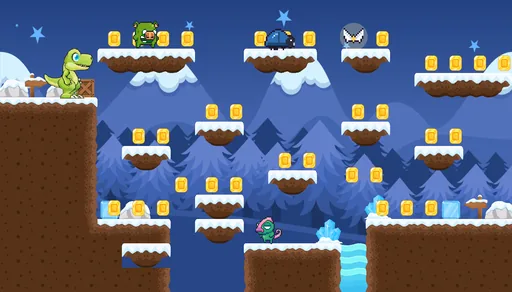
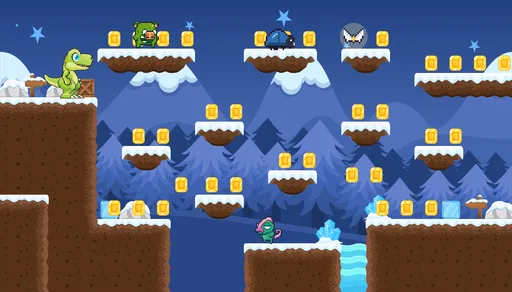
feat(levels): your Iceland edits, kept by the generator; seam steps fixed
Your tile edits in Iceland 1-5, Desert 3-4 and Graveyard 2-3, with the
collision and items to match:
- Iceland 1: a step at the pillar's base (col 18, top at row 8): stood
  on, with a left wall; the water and death zone under it pulled back.
- Iceland 2: the snow line at row 8 back at the seam (already solid).
- Iceland 3 to 5: the cave line runs into Iceland 3's cliff (decor, no
  collision); Iceland 4's ground ends at col 18 and a pit opens under
  the 4 -> 5 ledge, Iceland 5's entry ledge is three tiles over it, its
  ground from col 1 (death zones for the pit both sides).

The generated levels' edits survive `pnpm levels`:
- A seam's ledge at the screen edge uses the middle tile (it carries on
  into the next level) - in every generated level, daily and endless too.
- Seam steps stop once the ground ahead is in reach (they were dropping
  a step into the ground), and never stack under the other seam's steps.
- One-off shapes are hand touches (TOUCHES) laid over the built level.

Also: four level-select starts (Grassland 5, Iceland 4, Graveyard 2 and
4) were inside the ground since the seam heights changed, so the dino
fell through and respawned in a loop; they now stand on it, and the
start test checks for exactly that.

diff --git a/app/pcg/generator.js b/app/pcg/generator.js
@@ -479,10 +479,21 @@ function seamLedges(level, heights) {
     let end = LEDGE - 1;
     if (row < ground) place(row, 0, LEDGE - 1);
     else while (heights[col(end + 1)] === row) end += 1; // a cliff: its flat top
+    // the highest ground (any height) between d0 and d1 (ROWS if none)
+    const groundAt = (d0, d1) => {
+      let g = ROWS;
+      for (let d = d0; d <= d1; d++) if (heights[col(d)] !== null) g = Math.min(g, heights[col(d)]);
+      return g;
+    };
     let r = row;
     while (groundBelow(end - 1, end + 1, r) - r > MAX_STEP_UP && end + 3 < COLS - LEDGE - 1) {
+      // ground ahead at or near this step's height is reached by walking or a hop
+      if (groundAt(end + 2, end + 3) - MAX_STEP_UP <= r) break;
       const next = Math.min(r + 2, groundBelow(end + 2, end + 3, r) - 2);
       if (next <= r) break;
+      const [s, e] = [Math.min(col(end + 2), col(end + 3)), Math.max(col(end + 2), col(end + 3))];
+      // the other seam's steps already lead down here: don't stack one under another
+      if (out.some(([pr, ps, pe]) => Math.abs(pr - next) <= 2 && s <= pe + 1 && e >= ps - 1)) break;
       r = next;
       place(r, end + 2, end + 3);
       end += 3;
@@ -623,7 +634,10 @@ export function buildLevelOnce(input, seed, dropped) {
 
   platforms.forEach(([r, s, e]) => {
     for (let c = s; c <= e; c++) {
-      areaMap[r][c] = c === s ? T.platLeft : c === e ? T.platRight : T.platMid;
+      // a seam's ledge at the screen edge carries on into the next level: no end cap there
+      const open = c === 0 || c === COLS - 1;
+      const cap = !open || !reserved.has([r, s, e].join(","));
+      areaMap[r][c] = cap && c === s ? T.platLeft : cap && c === e ? T.platRight : T.platMid;
       collisonMap[r][c] = "t";
     }
   });
@@ -1169,6 +1183,71 @@ export function ascii({ data }) {
     .join("\n");
 }
 
+/**
+ * Hand touches on generated story levels: cells drawn by hand that the generator doesn't
+ * make, laid over the built level by buildAll (so `pnpm levels` keeps them). Each cell is
+ * [row, col, tile, collision]; `death` adds pit zones. Whatever stood on ground a touch
+ * takes away (decor, coins) goes with it.
+ */
+export const TOUCHES = {
+  // Iceland 3: Iceland 2's cave floor line runs on into the cliff (decor inside the dirt)
+  9: {
+    cells: [
+      [8, 0, 2, ""],
+      [8, 1, [5, 3], ""],
+      [9, 1, [5, 6], ""],
+      [10, 1, [5, 6], ""],
+      [11, 1, [5, 6], ""],
+    ],
+  },
+  // Iceland 4: the ground ends a column early (col 18); a pit opens under the exit ledge
+  10: {
+    cells: [
+      [9, 18, 3, "tr"],
+      [10, 18, 6, "r"],
+      [11, 18, 6, "r"],
+      ...[9, 10, 11].flatMap((r) => [
+        [r, 19, 0, ""],
+        [r, 20, 0, ""],
+      ]),
+    ],
+    death: [{ x: 19 * TILE, y: 170, height: 32, width: 2 * TILE }],
+  },
+  // Iceland 5: a three-tile entry ledge over the pit, its ground starting at col 1
+  11: {
+    cells: [
+      [7, 2, 15, "t"],
+      [7, 3, 0, ""],
+      [9, 0, 0, ""],
+      [9, 1, 1, "tl"],
+      [10, 0, 0, ""],
+      [10, 1, 4, "l"],
+      [11, 0, 0, ""],
+      [11, 1, 4, "l"],
+    ],
+    death: [{ x: 0, y: 170, height: 32, width: TILE }],
+  },
+};
+
+/** Lays a level's hand touches (TOUCHES) over its built data. */
+function touch(data) {
+  const touches = TOUCHES[data.id];
+  if (!touches) return;
+  touches.cells.forEach(([r, c, tile, collision]) => {
+    const wasTop = (data.collisonMap[r][c] || "").includes("t");
+    data.areaMap[r][c] = tile;
+    data.collisonMap[r][c] = collision;
+    if (tile || !wasTop) return;
+    // the ground or ledge here went: so does what stood on it
+    if (r > 0) data.objectsMap[r - 1][c] = 0;
+    const on = (item) => Math.floor(item.left + 0.3) === c && item.top >= r - 1.5 && item.top < r;
+    data.coins = data.coins.filter((coin) => !on(coin));
+    data.enemies = data.enemies.filter((enemy) => !on(enemy));
+    if (data.powerups) data.powerups = data.powerups.filter((p) => !on(p));
+  });
+  data.death.push(...(touches.death || []));
+}
+
 /** Builds every level in LEVELS (first valid seed) and links their portals. */
 export function buildAll() {
   const results = {};
@@ -1184,6 +1263,8 @@ export function buildAll() {
     if (error) throw new Error(`area ${level.id}: could not generate a valid level (${error})`);
     results[level.id] = { ...result, seed };
   });
+
+  Object.values(results).forEach(({ data }) => touch(data));
 
   // Portals between two generated levels land the player just above the
   // neighbour's edge ground.

diff --git a/functions/shared/pcg/generator.js b/functions/shared/pcg/generator.js
@@ -480,10 +480,21 @@ function seamLedges(level, heights) {
     let end = LEDGE - 1;
     if (row < ground) place(row, 0, LEDGE - 1);
     else while (heights[col(end + 1)] === row) end += 1; // a cliff: its flat top
+    // the highest ground (any height) between d0 and d1 (ROWS if none)
+    const groundAt = (d0, d1) => {
+      let g = ROWS;
+      for (let d = d0; d <= d1; d++) if (heights[col(d)] !== null) g = Math.min(g, heights[col(d)]);
+      return g;
+    };
     let r = row;
     while (groundBelow(end - 1, end + 1, r) - r > MAX_STEP_UP && end + 3 < COLS - LEDGE - 1) {
+      // ground ahead at or near this step's height is reached by walking or a hop
+      if (groundAt(end + 2, end + 3) - MAX_STEP_UP <= r) break;
       const next = Math.min(r + 2, groundBelow(end + 2, end + 3, r) - 2);
       if (next <= r) break;
+      const [s, e] = [Math.min(col(end + 2), col(end + 3)), Math.max(col(end + 2), col(end + 3))];
+      // the other seam's steps already lead down here: don't stack one under another
+      if (out.some(([pr, ps, pe]) => Math.abs(pr - next) <= 2 && s <= pe + 1 && e >= ps - 1)) break;
       r = next;
       place(r, end + 2, end + 3);
       end += 3;
@@ -624,7 +635,10 @@ export function buildLevelOnce(input, seed, dropped) {
 
   platforms.forEach(([r, s, e]) => {
     for (let c = s; c <= e; c++) {
-      areaMap[r][c] = c === s ? T.platLeft : c === e ? T.platRight : T.platMid;
+      // a seam's ledge at the screen edge carries on into the next level: no end cap there
+      const open = c === 0 || c === COLS - 1;
+      const cap = !open || !reserved.has([r, s, e].join(","));
+      areaMap[r][c] = cap && c === s ? T.platLeft : cap && c === e ? T.platRight : T.platMid;
       collisonMap[r][c] = "t";
     }
   });
@@ -1170,6 +1184,71 @@ export function ascii({ data }) {
     .join("\n");
 }
 
+/**
+ * Hand touches on generated story levels: cells drawn by hand that the generator doesn't
+ * make, laid over the built level by buildAll (so `pnpm levels` keeps them). Each cell is
+ * [row, col, tile, collision]; `death` adds pit zones. Whatever stood on ground a touch
+ * takes away (decor, coins) goes with it.
+ */
+export const TOUCHES = {
+  // Iceland 3: Iceland 2's cave floor line runs on into the cliff (decor inside the dirt)
+  9: {
+    cells: [
+      [8, 0, 2, ""],
+      [8, 1, [5, 3], ""],
+      [9, 1, [5, 6], ""],
+      [10, 1, [5, 6], ""],
+      [11, 1, [5, 6], ""],
+    ],
+  },
+  // Iceland 4: the ground ends a column early (col 18); a pit opens under the exit ledge
+  10: {
+    cells: [
+      [9, 18, 3, "tr"],
+      [10, 18, 6, "r"],
+      [11, 18, 6, "r"],
+      ...[9, 10, 11].flatMap((r) => [
+        [r, 19, 0, ""],
+        [r, 20, 0, ""],
+      ]),
+    ],
+    death: [{ x: 19 * TILE, y: 170, height: 32, width: 2 * TILE }],
+  },
+  // Iceland 5: a three-tile entry ledge over the pit, its ground starting at col 1
+  11: {
+    cells: [
+      [7, 2, 15, "t"],
+      [7, 3, 0, ""],
+      [9, 0, 0, ""],
+      [9, 1, 1, "tl"],
+      [10, 0, 0, ""],
+      [10, 1, 4, "l"],
+      [11, 0, 0, ""],
+      [11, 1, 4, "l"],
+    ],
+    death: [{ x: 0, y: 170, height: 32, width: TILE }],
+  },
+};
+
+/** Lays a level's hand touches (TOUCHES) over its built data. */
+function touch(data) {
+  const touches = TOUCHES[data.id];
+  if (!touches) return;
+  touches.cells.forEach(([r, c, tile, collision]) => {
+    const wasTop = (data.collisonMap[r][c] || "").includes("t");
+    data.areaMap[r][c] = tile;
+    data.collisonMap[r][c] = collision;
+    if (tile || !wasTop) return;
+    // the ground or ledge here went: so does what stood on it
+    if (r > 0) data.objectsMap[r - 1][c] = 0;
+    const on = (item) => Math.floor(item.left + 0.3) === c && item.top >= r - 1.5 && item.top < r;
+    data.coins = data.coins.filter((coin) => !on(coin));
+    data.enemies = data.enemies.filter((enemy) => !on(enemy));
+    if (data.powerups) data.powerups = data.powerups.filter((p) => !on(p));
+  });
+  data.death.push(...(touches.death || []));
+}
+
 /** Builds every level in LEVELS (first valid seed) and links their portals. */
 export function buildAll() {
   const results = {};
@@ -1185,6 +1264,8 @@ export function buildAll() {
     if (error) throw new Error(`area ${level.id}: could not generate a valid level (${error})`);
     results[level.id] = { ...result, seed };
   });
+
+  Object.values(results).forEach(({ data }) => touch(data));
 
   // Portals between two generated levels land the player just above the
   // neighbour's edge ground.

diff --git a/app/util/index.js b/app/util/index.js
@@ -89,12 +89,12 @@ export const LEVELS = [
   { name: "Grassland 2", id: 2, world: "Grasslands", left: 40, top: 100 },
   { name: "Grassland 3", id: 3, world: "Grasslands", left: 40, top: 120 },
   { name: "Grassland 4", id: 4, world: "Grasslands", left: 40, top: 92 }, // on its starting cliff
-  { name: "Grassland 5", id: 5, world: "Grasslands", left: 40, top: 124 },
+  { name: "Grassland 5", id: 5, world: "Grasslands", left: 40, top: 108 },
   { name: "Grassland 6", id: 6, world: "Grasslands", left: 40, top: 124, boss: true },
   { name: "Iceland 1", id: 7, world: "Iceland", left: 48, top: 100 },
   { name: "Iceland 2", id: 8, world: "Iceland", left: 32, top: 20 },
   { name: "Iceland 3", id: 9, world: "Iceland", left: 40, top: 44 }, // on its starting cliff
-  { name: "Iceland 4", id: 10, world: "Iceland", left: 40, top: 140 },
+  { name: "Iceland 4", id: 10, world: "Iceland", left: 40, top: 124 },
   { name: "Iceland 5", id: 11, world: "Iceland", left: 40, top: 124 },
   { name: "Iceland 6", id: 12, world: "Iceland", left: 40, top: 124, boss: true },
   { name: "Desert 1", id: 13, world: "Desert", left: 40, top: 124 },
@@ -104,9 +104,9 @@ export const LEVELS = [
   { name: "Desert 5", id: 17, world: "Desert", left: 40, top: 124 },
   { name: "Desert 6", id: 18, world: "Desert", left: 40, top: 124, boss: true },
   { name: "Graveyard 1", id: 19, world: "Graveyard", left: 40, top: 124 },
-  { name: "Graveyard 2", id: 20, world: "Graveyard", left: 40, top: 124 },
+  { name: "Graveyard 2", id: 20, world: "Graveyard", left: 40, top: 108 },
   { name: "Graveyard 3", id: 21, world: "Graveyard", left: 40, top: 124 },
-  { name: "Graveyard 4", id: 22, world: "Graveyard", left: 40, top: 124 },
+  { name: "Graveyard 4", id: 22, world: "Graveyard", left: 40, top: 108 },
   { name: "Graveyard 5", id: 23, world: "Graveyard", left: 40, top: 124 },
   { name: "Graveyard 6", id: 24, world: "Graveyard", left: 40, top: 124, boss: true },
   { name: "Factory 1", id: 25, world: "Factory", left: 40, top: 124 },

diff --git a/tests/generator-shooters.test.js b/tests/generator-shooters.test.js
@@ -185,7 +185,8 @@ test("shooting is a flag only: the levels are the ones generated before it exist
   // platforms), when each level began starting at the height the one before ends
   // (no step at the seam), when a day's levels took one look and when seams took
   // random heights (high ones on a ledge) and when the ground under a ledge was matched
-  // across the seam; the flag itself still changes nothing else.
+  // across the seam, and when seam steps stopped landing inside ground or stacking and a
+  // seam's ledge ran on at the screen edge; the flag itself still changes nothing else.
   const hash = createHash("sha256");
   everyArea((area) => {
     const plain = {
@@ -196,7 +197,7 @@ test("shooting is a flag only: the levels are the ones generated before it exist
   });
   assert.equal(
     hash.digest("hex"),
[2 lines of base64/hex data omitted]
   );
 });
 

diff --git a/tests/levels.test.js b/tests/levels.test.js
@@ -59,6 +59,13 @@ test("level-select start positions land safely", () => {
     const { dead, standing } = idle(world, 60);
     assert.equal(dead, false, `${level.name}: died at start`);
     assert.equal(standing, true, `${level.name}: not standing after start`);
+    // a start inside the ground drops the dino through it, again and again
+    assert.equal(world.respawns, 0, `${level.name}: fell through the ground at start`);
+    assert.equal(
+      Math.round(world.player.getBottom()) % TILE,
+      0,
+      `${level.name}: not on a tile's top`,
+    );
   }
 });
 

diff --git a/app/campaign/score-rules.js b/app/campaign/score-rules.js
@@ -35,7 +35,7 @@ export const CAMPAIGN_LEVELS = {
   8: { coins: 16, enemies: 6, powerups: 1, boss: false },
   9: { coins: 33, enemies: 3, powerups: 1, boss: false },
   10: { coins: 37, enemies: 5, powerups: 1, boss: false },
-  11: { coins: 26, enemies: 6, powerups: 1, boss: false },
+  11: { coins: 25, enemies: 6, powerups: 1, boss: false },
   12: { coins: 12, enemies: 0, powerups: 1, boss: true },
   13: { coins: 28, enemies: 5, powerups: 1, boss: false },
   14: { coins: 29, enemies: 4, powerups: 1, boss: false },

diff --git a/functions/shared/campaign/score-rules.js b/functions/shared/campaign/score-rules.js
@@ -36,7 +36,7 @@ export const CAMPAIGN_LEVELS = {
   8: { coins: 16, enemies: 6, powerups: 1, boss: false },
   9: { coins: 33, enemies: 3, powerups: 1, boss: false },
   10: { coins: 37, enemies: 5, powerups: 1, boss: false },
-  11: { coins: 26, enemies: 6, powerups: 1, boss: false },
+  11: { coins: 25, enemies: 6, powerups: 1, boss: false },
   12: { coins: 12, enemies: 0, powerups: 1, boss: true },
   13: { coins: 28, enemies: 5, powerups: 1, boss: false },
   14: { coins: 29, enemies: 4, powerups: 1, boss: false },
